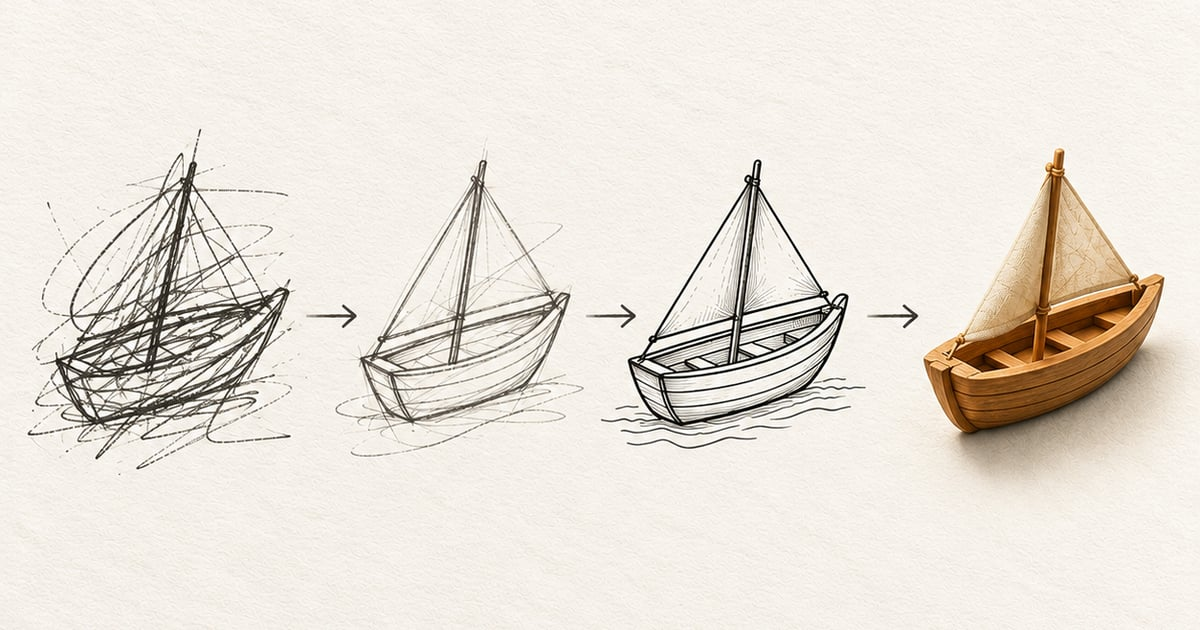
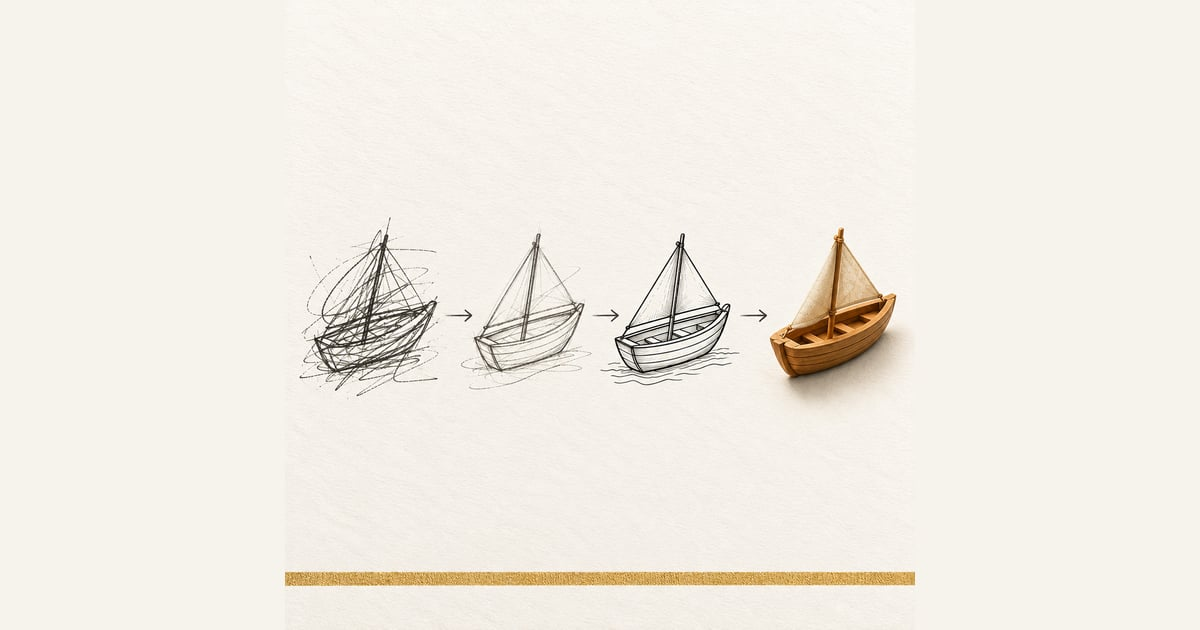
Publish essay: What Is a Thinking Machine?

Changed region(s): [[0.0308, 0.2413, 0.9867, 0.7841], [0.2158, 0.9048, 0.7708, 0.9349]]

diff --git a/content/posts/what-is-a-thinking-machine.md b/content/posts/what-is-a-thinking-machine.md
@@ -1,0 +1,330 @@
+---
+title: "What Is a Thinking Machine?"
+date: "21-10-2026"
+topic: "Thinking Machines"
+excerpt: "A thinking machine is not a robot with a brain. It is a machine that notices, decides and learns. Here is the idea in plain words."
+draft: false
+image: "/images/posts/what-is-a-thinking-machine.png"
+imageAlt: "Four laterite stone steps rising from left to right: a ceiling-fan blade on the first, a rice cooker on the second, a folded road map on the third, and a tulasi plant with a soil sensor on the top step."
+---
+
+Close your eyes for a moment. Picture a thinking machine.
+
+What do you see? Perhaps a robot. A metal head. Glowing eyes. Maybe a deep, slow voice, if you have watched enough films.
+
+That picture makes the idea feel distant. As if thinking machines belong in a film studio or a big laboratory somewhere far away.
+
+But the machines we are talking about are already much closer to home. You may have used several of them today without giving them a second thought.
+
+Once you begin to understand how they work, you may even find yourself building one.
+
+So let us take it slowly, one step at a time.
+
+## Start with an ordinary machine
+
+Look up at the ceiling fan. You turn the regulator to three. The fan spins.
+
+It will keep spinning at that setting, whether the room gets cooler during a monsoon shower or warmer in the afternoon.
+
+The fan does not know how the room feels. A basic fan has no room-temperature sensor telling it when to change its speed. It simply follows your setting.
+
+Some newer fans have timers, remote controls and sleep modes. These are useful additions. But unless a fan has a system that measures room conditions and adjusts its behaviour accordingly, it will not respond to the temperature of the room.
+
+Let us call this our first kind of machine.
+
+**A plain machine follows instructions.**
+
+## Step one: it notices
+
+Now walk into the kitchen. Think of an ordinary electric rice cooker.
+
+You wash the rice. Add water. Close the lid and press the switch down. Then you go and do something else.
+
+A while later, you hear a click. The cooker has switched from cooking to warming.
+
+How did it know?
+
+In many traditional rice cookers, a temperature-sensitive mechanism sits beneath the cooking pot. While water remains in the pot, its temperature stays close to the boiling point under normal cooking conditions.
+
+As the free water in the pot runs out, the temperature at the bottom begins to rise. The cooker detects this change and switches off the main heating element.
+
+Some traditional models use a magnetic thermostat. Other cookers use different sensing and control mechanisms, so the exact arrangement depends on the model.
+
+The important idea is the same. Something in the machine responds to a change in the world.
+
+That is what a sensor does. It detects or measures something, such as temperature, light or moisture, and makes that information available to the machine.
+
+The cooker does not need a human to stand beside it and watch the rice. It can respond automatically when the relevant condition changes.
+
+**An automatic machine reacts to a condition.**
+
+But notice the limitation. The cooker follows a mechanism designed in advance. It does not invent a new cooking rule because the weather has changed or because you are cooking a different variety of rice.
+
+It can react without learning.
+
+## Step two: it decides
+
+Now pick up your phone and open a map app.
+
+Imagine you are driving from Kannur to Kochi along NH 66. Somewhere along the way, traffic slows to a crawl. Perhaps a lorry has broken down. Perhaps roadworks have narrowed a lane.
+
+Your map app shows a delay and suggests another route.
+
+How did it work that out?
+
+Navigation services can use information from devices travelling along roads to estimate traffic conditions. Google Maps, for example, explains that navigation data helps it identify traffic conditions, disruptions and potentially faster routes. Historical traffic patterns can also help it estimate how long a journey may take.
+
+The service compares possible routes using factors such as estimated travel time and current traffic conditions. It then offers an alternative when its calculations suggest that another route may be better.
+
+This is not magic. It is a system working with data, rules and calculations to compare available choices.
+
+There is an important qualification here. The app does not necessarily know why traffic has slowed down. It may detect a delay without knowing whether the cause is an accident, roadwork or something else. Its information can also be incomplete or out of date.
+
+And the route it recommends may not be the one you would choose. You might prefer a familiar road, a safer turn or a place where you can stop for tea.
+
+The app offers a recommendation. You remain free to accept or reject it.
+
+**A decision-making machine compares possibilities and selects an option according to its objectives and constraints.**
+
+Some decisions are made using fixed rules. Others use predictions learned from data. Many real systems combine both.
+
+## Step three: it learns
+
+There is another step, and it brings us closer to what people usually mean when they talk about artificial intelligence.
+
+Think about the spam folder in your email.
+
+Spam is unwanted or suspicious mail. Fake lottery prizes. Strange job offers. Messages warning that your account will be blocked unless you click a link immediately.
+
+Could someone write a separate rule for every possible spam message?
+
+It would be a difficult task. Senders change their addresses, alter their wording and invent new ways to make a message look legitimate.
+
+So modern spam filters use more than a list of fixed rules. Many use machine-learning methods trained on examples of messages and their characteristics.
+
+Some training examples are labelled as spam. Others are labelled as legitimate email. A learning algorithm uses these examples to find patterns that help distinguish between the two.
+
+When a new message arrives, the system can use what it learned to estimate whether the message is likely to be spam.
+
+It does not need to have seen that exact message before. It can recognise patterns that resemble those in its training data.
+
+That is one of the strengths of machine learning.
+
+Google reported in 2019 that Gmail's machine-learning models, working with its other protections, were blocking more than 99.9 per cent of spam, phishing and malware before they reached inboxes. That was Google's reported figure for its system at the time, not a guarantee that every message would be classified correctly.
+
+You have probably seen the mistakes yourself. A legitimate message sometimes lands in the spam folder. A suspicious message sometimes reaches the inbox.
+
+When you report spam or mark a legitimate message as not spam, you can provide useful feedback. How that feedback is used depends on the service and its systems; we should not assume that every click directly retrains a model.
+
+Still, the larger idea is worth understanding.
+
+A learning system uses examples to adjust how it recognises patterns or makes predictions. Depending on the system, it may also be updated as new data becomes available.
+
+**A learning machine uses experience in the form of data to improve a task.**
+
+It does not automatically become wiser about everything. It learns within the limits of its training, design and purpose.
+
+## The ladder
+
+Let us put the idea on a ladder with four rungs.
+
+- A plain machine **follows**. Think of a basic ceiling fan.
+- An automatic machine **reacts**. Think of a traditional rice cooker.
+- A decision-making machine **chooses**. Think of a navigation app comparing routes.
+- A learning machine **improves**. Think of a spam filter trained on examples.
+
+This is a simple teaching model, not a strict scientific classification. Real machines often occupy several rungs at once.
+
+A navigation app can learn from historical traffic patterns and make decisions using those predictions. A spam filter can apply fixed rules as well as learned patterns.
+
+The rungs are not separate boxes. They are ways of looking at what a machine can do.
+
+And notice something else. None of these machines needs a head, arms or a face.
+
+Some of the most useful systems that appear intelligent are simply software running on a phone, a computer or a small electronic board. You may never see the machinery behind them. You only see the result.
+
+## Climb the ladder with a plant
+
+Now let us build something.
+
+Picture a pot of tulasi on your windowsill. Or on the tulasi thara in your courtyard, if your home has one.
+
+We will make a small machine that waters it.
+
+**Rung one: follow.**
+
+Place a small pump beside a water container. Set it to run every morning at six for ten seconds.
+
+The amount of water it delivers depends on the pump, the height it must lift the water, the pipe and other conditions. Check the actual flow with a measuring cup before relying on the timer.
+
+On a rainy July morning, the pump may water the plant even though the soil is already wet. On a hot April day, the soil may dry out sooner than expected.
+
+The machine follows its schedule. It does not know whether the plant needs water.
+
+**Rung two: react.**
+
+Add a soil-moisture sensor.
+
+The sensor gives a reading. It does not know what the plant needs. That is your job. You choose a threshold, a reading that means "dry" for your pot.
+
+Now the controller, the small board that runs your program, checks the sensor reading and runs the pump when the reading crosses the threshold you have set for dry soil.
+
+For a project that will stay in the soil, a capacitive moisture sensor is often a better starting point than a cheap resistive sensor with exposed metal electrodes. Resistive sensors can corrode over time.
+
+But a capacitive sensor is not magic either. Its readings depend on the sensor, the soil and how it is installed. Calibrate it for your pot, and test it before trusting it to control the pump.
+
+You now have a machine that measures a condition and responds to it.
+
+**Rung three: decide.**
+
+Give the machine a few more things to consider.
+
+How dry is the soil? What time is it? Is there enough water in the tank? Has the pump already run several times today?
+
+You can write rules that take these conditions into account.
+
+For example, the machine might water only when the soil is dry enough, the tank contains sufficient water and a minimum interval has passed since the previous watering.
+
+You might prefer to water early in the morning. This is often a sensible choice, particularly if water will reach the leaves as well as the soil. Watering at midday can increase water loss through evaporation, while foliage that remains wet overnight may face a greater risk of fungal disease. Drip watering directly into the soil can also work well at other times.
+
+The correct schedule still depends on the plant, the pot, the soil, the weather and the growing conditions.
+
+And what if the tank is nearly empty?
+
+The machine should stop the pump rather than continue running without sufficient water. A suitable level sensor or another reliable way of detecting an empty tank can help prevent damage.
+
+If you also want a message on your phone, you need a way to communicate with it. A Wi-Fi-enabled board, such as an ESP32, is one option. An Arduino Uno R3 has no Wi-Fi, so it cannot send an internet message without extra networking hardware.
+
+The machine is becoming more capable, but we are still giving it rules to follow.
+
+**Rung four: learn.**
+
+Now let us make the project more interesting.
+
+Let the machine record soil-moisture readings, watering events and perhaps the weather or rainfall, if that information is available.
+
+Over time, you may notice patterns. The pot might dry out faster on hot, sunny days than during a spell of rainy weather. The same plant may need different amounts of water at different stages of growth.
+
+But collecting records alone does not mean the machine has learned anything.
+
+To make it a learning system, we need a method that uses those records to improve its predictions or decisions. We could begin by predicting how quickly the soil will dry. Then we could compare each prediction with what actually happens and use the difference to improve the next prediction.
+
+A simple system could learn from these patterns, provided it has enough useful data and a suitable learning method. It would still need safeguards against overwatering, sensor errors and an empty tank.
+
+And it would need testing. A system that works well for one pot may not work well for another.
+
+That is the difference between recording information and learning from it.
+
+You can begin the first two rungs with a small controller, a moisture sensor, a mini pump, a suitable driver or relay, and a separate power supply appropriate for the pump. The controller must not drive a pump directly unless its electrical specifications permit it. You will also need to protect the electronics from water.
+
+For timed watering, you can use a real-time clock module or a board with a reliable way to obtain the time. For remote notifications, you will need suitable networking hardware and software.
+
+The later rungs require more careful programming, testing and observation.
+
+And remember this. Your tulasi does not care how clever the machine is. It needs the right amount of water, at the right time, without its roots sitting in waterlogged soil.
+
+The point is not to build the cleverest machine. It is to solve the actual problem.
+
+## What "thinking" does not mean
+
+The word *thinking* can mislead us, so let me be careful.
+
+When I call something a thinking machine, I do not mean that it necessarily feels anything or understands the world as a human being does.
+
+A machine can recognise patterns, make predictions and produce useful decisions without us knowing that it has feelings or human-like understanding. Those abilities alone do not establish consciousness.
+
+This distinction matters because intelligent-looking behaviour can be impressive, but it can also hide serious limitations.
+
+A spam filter can confidently put a genuine email in the wrong folder. A navigation app can suggest a route that turns out to be slower. A learning system can make errors when it encounters situations unlike those in its training data.
+
+Researchers have also documented cases where automated systems perform very differently for different groups of people.
+
+In a well-known 2018 study, *Gender Shades*, researchers Joy Buolamwini and Timnit Gebru evaluated three commercial systems that classified gender from facial images.
+
+In their benchmark, the highest error rate for lighter-skinned men was 0.8 per cent. For darker-skinned women, the error rate reached 34.7 per cent.
+
+These figures describe the systems and evaluation used in that particular study. They do not mean that every modern facial-analysis system has those same error rates.
+
+The study nevertheless revealed an important problem. Systems can work much better for some groups than for others. The data used to develop and test a system, and the choices made by its designers, can have real consequences.
+
+A machine is not automatically fair because it uses mathematics. Nor is it automatically reliable because it has learned from a large amount of data.
+
+And a machine cannot decide for us what is worth doing. People still have to choose the purpose, consider the consequences and take responsibility for how the system is used.
+
+So think of a thinking machine as a powerful helper. One that can perform certain tasks quickly and consistently, but whose work still needs to be understood, tested and checked.
+
+## Why this matters to a student in Kerala
+
+Think about the places around you.
+
+A paddy field. A primary health centre. A bank branch. Your school office. The small provision shop near the bus stop.
+
+Each has tasks that repeat every day. Counting. Checking. Sorting. Reminding. Recording.
+
+Someone has to do those jobs. Often, that person is already busy with other work.
+
+A well-designed machine can help with some of the repetitive tasks. It might monitor water levels, remind a shopkeeper when stock is low, organise records or flag an unusual reading for someone to check.
+
+Not every task should be automated. Some require judgement, context, trust or a human conversation. Some are better left alone because the cost of building and maintaining a system is greater than the benefit.
+
+The useful question is not, "Can we make a machine do this?"
+
+It is, "Would a machine doing this actually help?"
+
+You do not need to be a genius to begin. A small electronic board, a sensor and a few inexpensive parts can help you build a machine that measures light, heat or moisture and responds to what it detects.
+
+That is a real beginning.
+
+The more advanced work takes time. You need to understand the problem, learn the tools, test your assumptions and improve the design.
+
+But the path is open.
+
+It starts by looking at an ordinary task and asking what a machine could observe, what it could do with that information and where a person still needs to be involved.
+
+## Four questions to ask about any machine
+
+The next time you encounter a machine that seems clever, ask four questions.
+
+**1. What does it notice?**
+
+What sensors, measurements or other data does it receive?
+
+**2. How does it decide?**
+
+Does it follow a fixed rule, compare several options or use a prediction learned from data?
+
+**3. What did it learn from?**
+
+If it uses machine learning, what examples shaped it? Who selected those examples? What might they have left out?
+
+**4. Who checks it?**
+
+How will anyone discover when it is wrong? What happens when the machine fails?
+
+These questions work for a rice cooker, a map app and a spam filter. They will also work for machines that have not been invented yet.
+
+You may not be able to answer every question immediately. That is fine. Knowing what to ask is a useful beginning.
+
+Once you understand what a machine observes, how it operates and where its limitations lie, it becomes easier to use it wisely. You can begin to improve it, or decide that it is not the right solution at all.
+
+## Where to begin
+
+In my first essay, I asked you to bring a rough idea.
+
+Here is another rough idea for you to bring.
+
+Pick one task that you, or someone near you, does again and again. Write it down in a single line.
+
+Then ask yourself: could a machine help with this task?
+
+Would it only need to follow a schedule? Would it need to react to a sensor? Would it need to compare several choices? Or would it benefit from learning patterns from past examples?
+
+Do not worry if you cannot answer immediately. Start with the simplest version. Build it, test it and see what happens.
+
+A rough idea is a good beginning. You can improve it one step at a time.
+
+A thinking machine is not magic. And it is not as far away as it may seem.
+
+It is a machine that can notice, decide and learn in ways that help us solve particular problems.
+
+And you can learn to build one.
